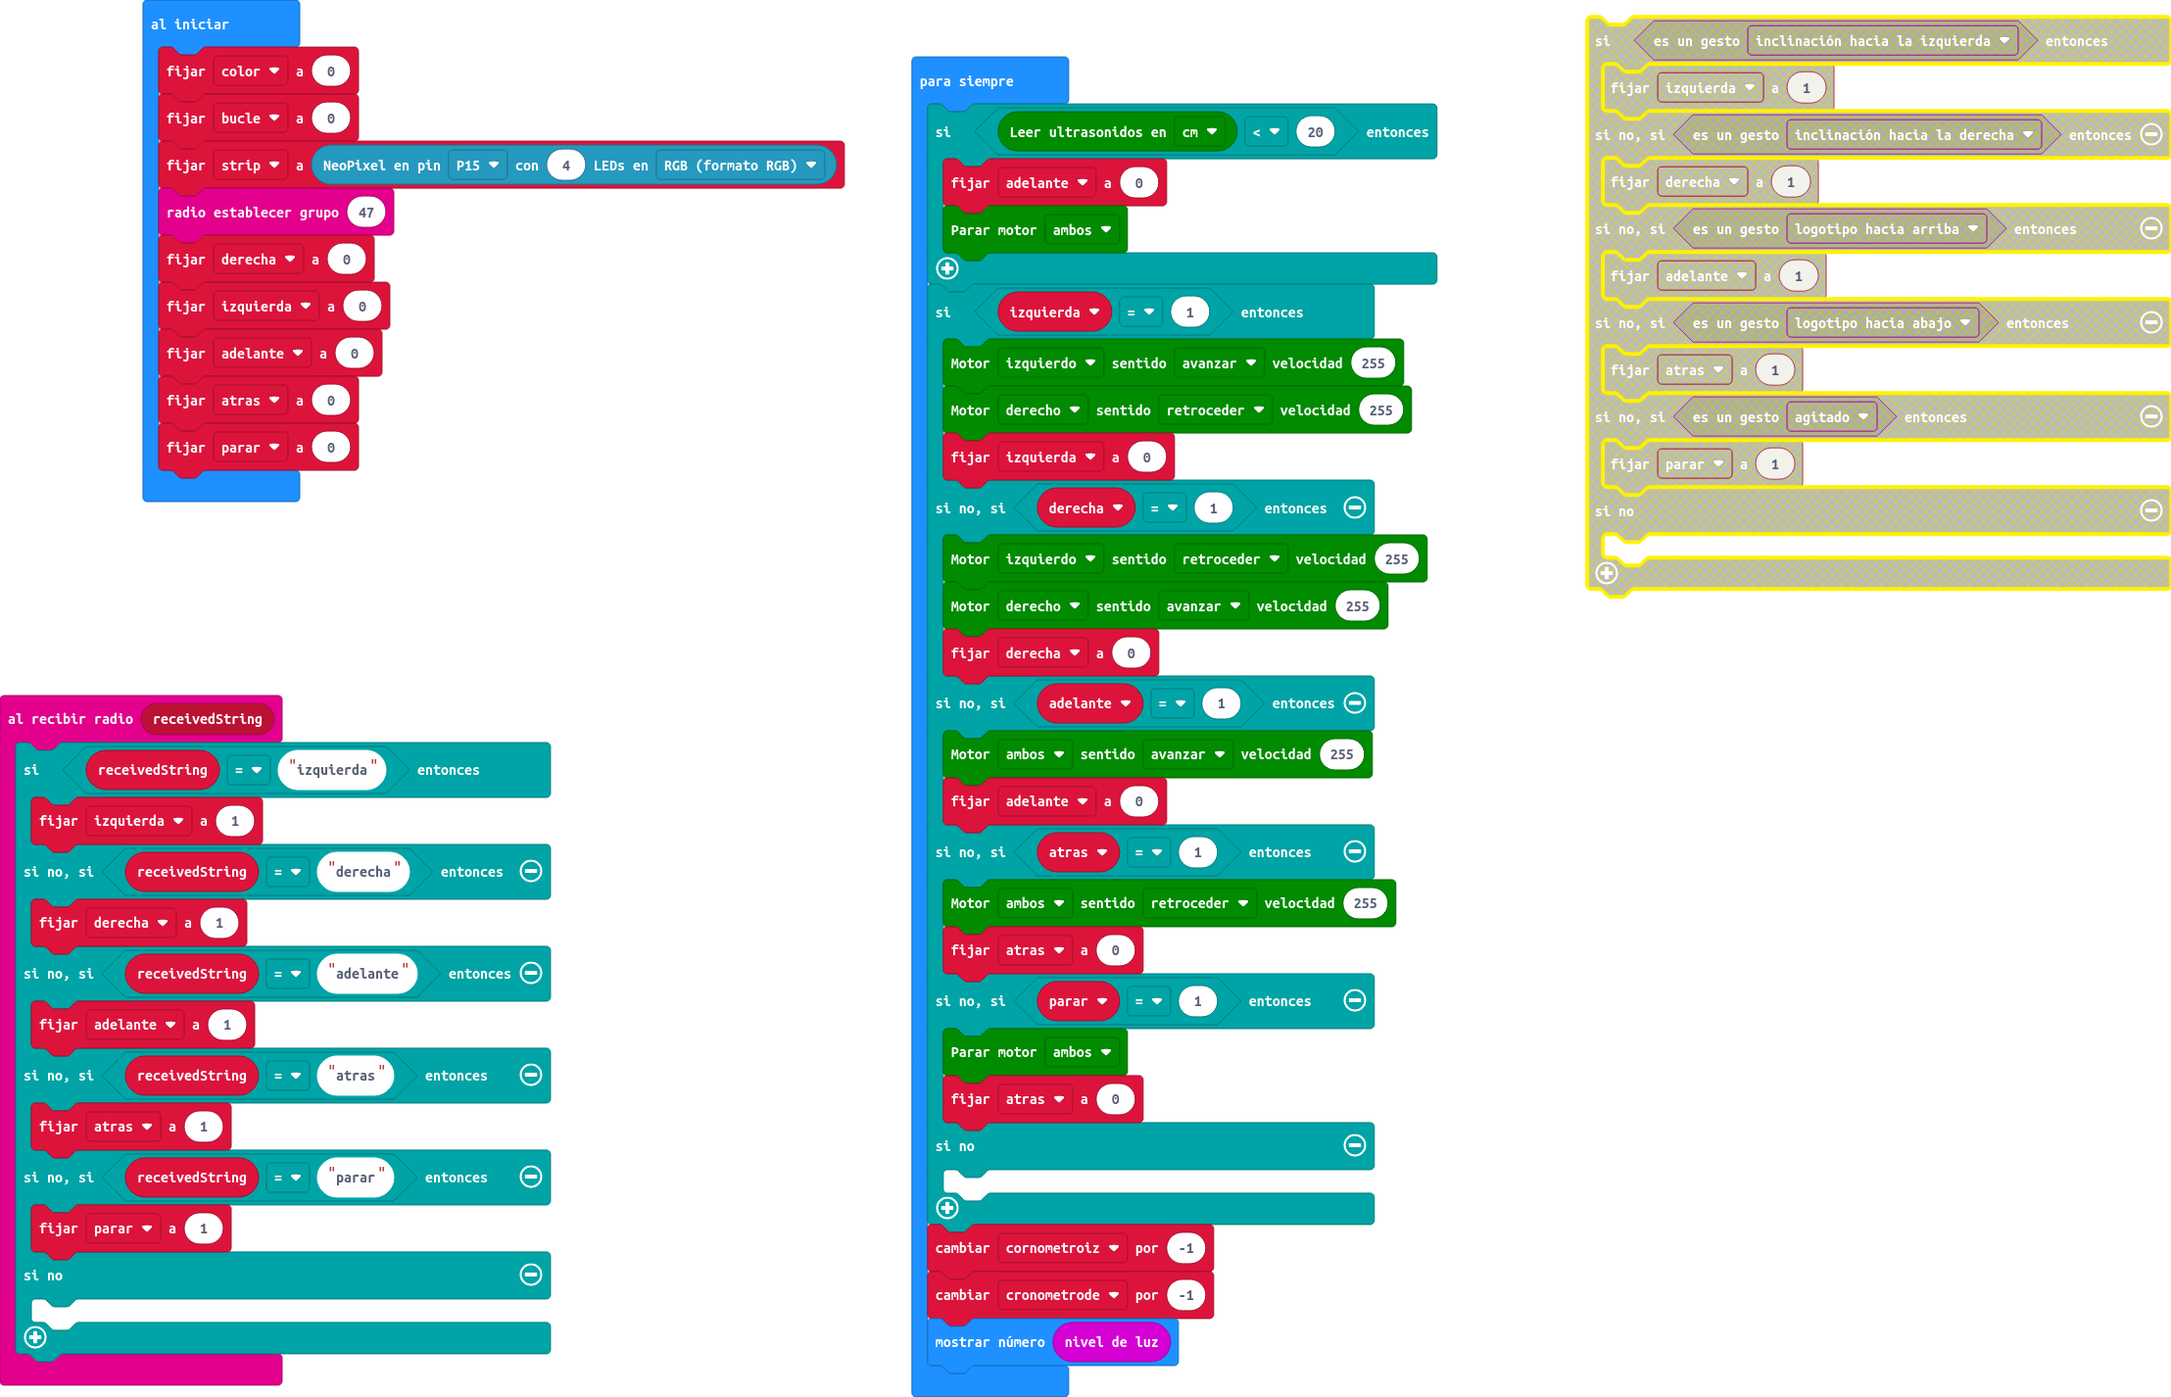
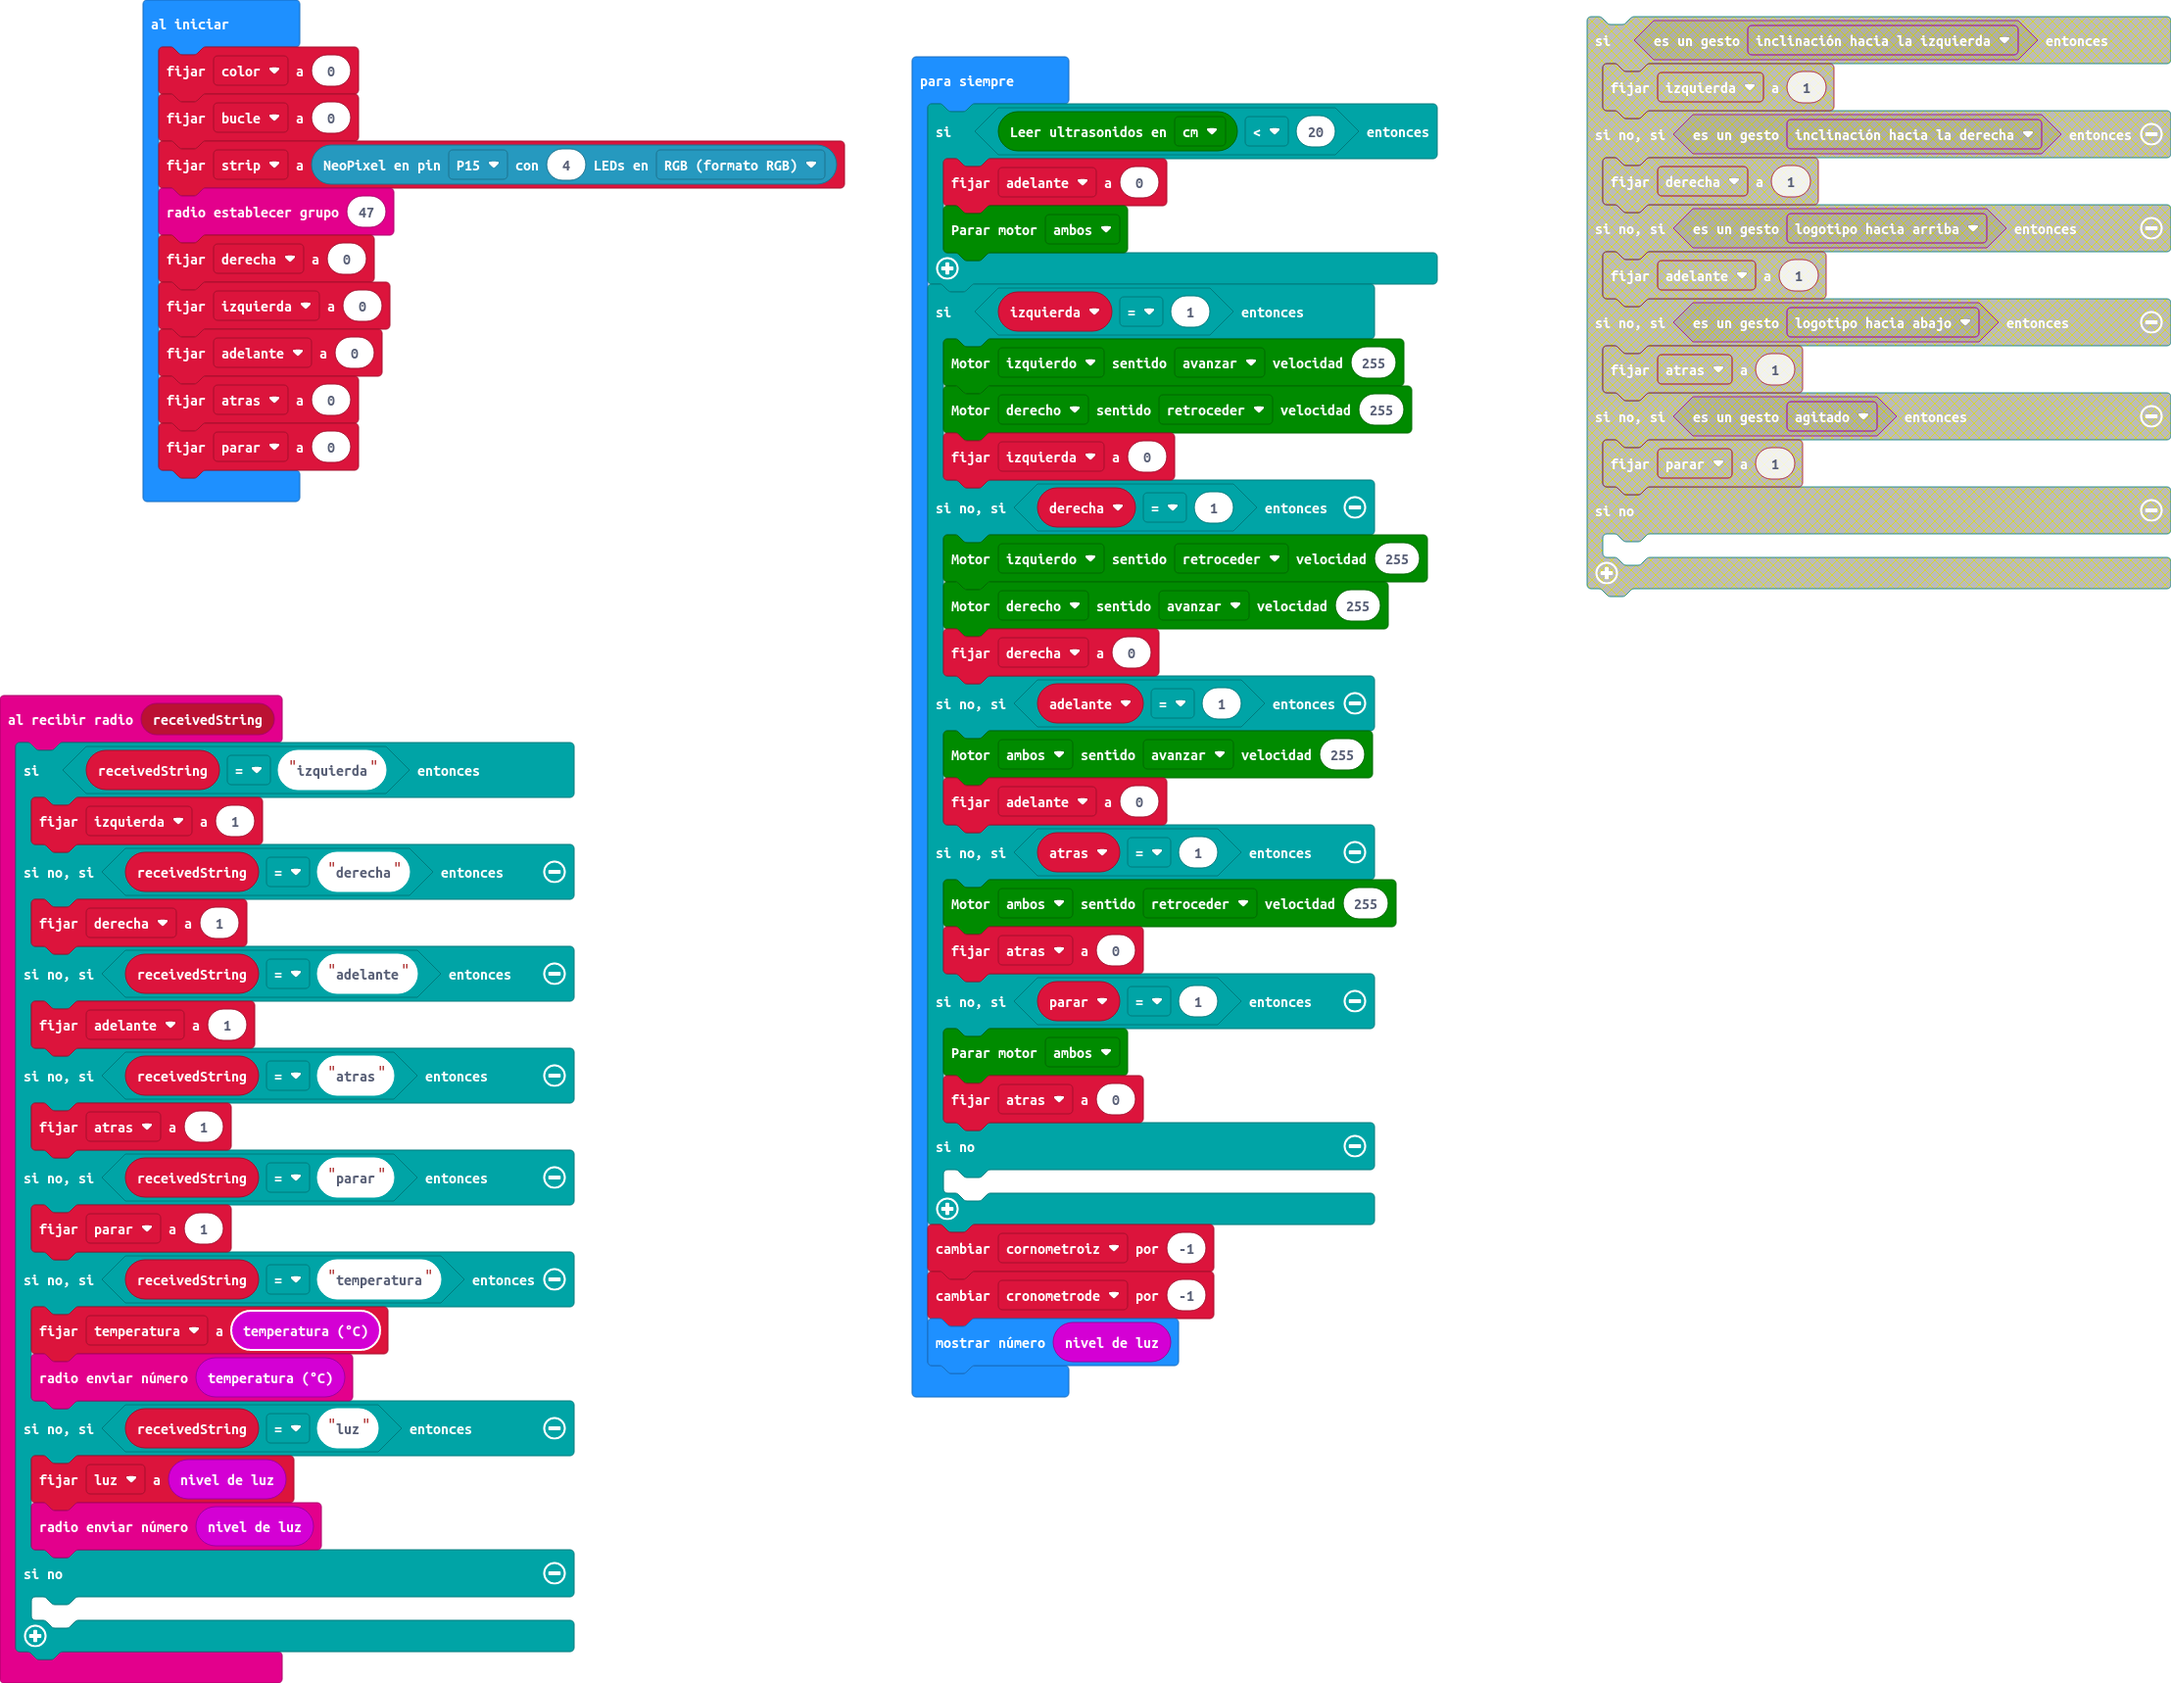
Actualizar main.blocks, main.ts

diff --git a/main.ts b/main.ts
@@ -9,12 +9,20 @@ radio.onReceivedString(function (receivedString) {
         atras = 1
     } else if (receivedString == "parar") {
         parar = 1
+    } else if (receivedString == "temperatura") {
+        temperatura = input.temperature()
+        radio.sendNumber(input.temperature())
+    } else if (receivedString == "luz") {
+        luz = input.lightLevel()
+        radio.sendNumber(input.lightLevel())
     } else {
     	
     }
 })
 let cronometrode = 0
 let cornometroiz = 0
+let luz = 0
+let temperatura = 0
 let parar = 0
 let atras = 0
 let adelante = 0
